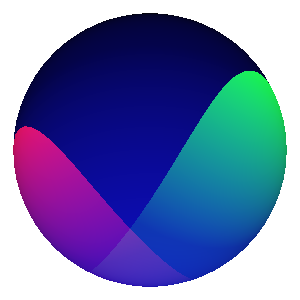
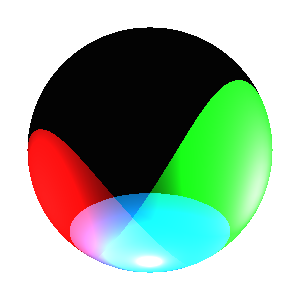
Final tweaks on first pass of shader 10 tutorial.

diff --git a/tests/shader_10.py b/tests/shader_10.py
@@ -6,6 +6,11 @@
 This tutorial builds on earlier tutorials by adding:
 
 	* Directional shielded Point Lights (Spot Lights)
+	
+Spot Lights are a commonly seen pattern. They are basically 
+Point Light sources which have shields/reflectors which block 
+light in most directions, while focussing the light (to some 
+degree) in a particular direction.
 '''
 from OpenGLContext import testingcontext
 BaseContext, MainFunction = testingcontext.getInteractive()
@@ -19,9 +24,37 @@ class TestContext( BaseContext ):
 	"""Demonstrates use of attribute types in GLSL
 	"""
 	LIGHT_COUNT = 3
+	'''Note that we're going to add 2 new vec4 fields to our light,
+	the legacy GL has 2 floats and a direction vector, but we're 
+	combining all the values into a uniform vector set.'''
 	LIGHT_SIZE = 7
 	def OnInit( self ):
 		"""Initialize the context"""
+		'''As you can see, we've created a new 4-element vector 
+		called SPOT_PARAMS which holds 3 "meaningful" float values.
+		The first element cos_spot_cutoff represents the cosign of 
+		the angle beyond which the light is cut off. This angle is 
+		measured from the light's spot_direction compared with the 
+		light_location vector.  In effect, it is a check to see if 
+		the fragment is within the cone of the light.  The use of the 
+		*cosine* of the angle is to allow for very fast checks against 
+		the dot-product of the normalized vectors.
+		
+		The second element, spot_exponent, is used to calculate the 
+		amount of "spotiness" of the spotlight, that is, the amount 
+		to which the spotlight focusses light on the center of the 
+		beam versus the outside of the beam.  A higher spot_exponent
+		will cause the spotlight to "focus" more, a lower exponent 
+		will cause the spotlight to act more like a "shielded" 
+		point-light (such as a lamp with blockers rather than reflectors).
+		
+		The last component of the SPOT_PARAMS is being used as a simple 
+		flag to tell us whether to apply the spot calculation.  We could 
+		have shaved a whole vec4 by packing the spot_exponent into the 
+		ATTENUATION vector's unused .w component, and then packing the 
+		spot_cutoff into the spot_direction's unused .w, but that becomes 
+		a bit awkward looking.
+		'''
 		lightConst = """
 		const int LIGHT_COUNT = %s;
 		const int LIGHT_SIZE = %s;
@@ -31,7 +64,7 @@ class TestContext( BaseContext ):
 		const int SPECULAR = 2;
 		const int POSITION = 3;
 		const int ATTENUATION = 4;
-		//SPOT_PARAMS [ spot_exponent, cos_spot_cutoff, ignored, is_spot ]
+		//SPOT_PARAMS [ cos_spot_cutoff, spot_exponent, ignored, is_spot ]
 		const int SPOT_PARAMS = 5;
 		const int SPOT_DIR = 6;
 		
@@ -42,6 +75,26 @@ class TestContext( BaseContext ):
 		
 		varying vec3 baseNormal;
 		"""%( self.LIGHT_COUNT, self.LIGHT_SIZE )
+		'''Our dLight function receives its final tweaks here.  We 
+		provide the two vec4 spot elements for the current light.
+		The spotlight operation modifies the point-light code such that 
+		the "attenuation" numerator is either 1.0 (for non-directional 
+		point-lights) or a calculated value for spot-lights.
+		
+		To calculate this value, we take the (cos of the) angle between 
+		the light direction (spot_direction) and the vector between 
+		the fragment and the light location (-light_pos).  If this value 
+		is lower than our spot_cutoff, then we do not want to provide 
+		any lighting whatsoever from this light, so we short-circuit and 
+		return a null vector of weights. 
+		
+		If the value is higher than the cutoff, we calculate the
+		"spotiness" multiplier.  Here we are *not* using the OpenGL 
+		standard method, instead we calculate the fraction of total 
+		cosine-space which is displayed and raise it to the power of our 
+		spot_exponent value.
+		
+		'''
 		dLight = """
 		vec3 dLight( 
 			in vec3 light_pos, // light position/direction
@@ -68,11 +121,18 @@ class TestContext( BaseContext ):
 						gl_NormalMatrix * normalize(spot_direction.xyz),
 						normalize(-light_pos)
 					);
-					if (spot_cos <= spot_params.y) {
+					if (spot_cos <= spot_params.x) {
 						// is a spot, and is outside the cone-of-light...
 						return vec3( 0.0, 0.0, 0.0 );
 					} else {
-						spot_effect = pow( spot_cos, spot_params.x );
+						if (spot_cos == 1.0) {
+							spot_effect = 1.0;
+						} else {
+							spot_effect = pow( 
+								(1.0-spot_params.x)/(1.0-spot_cos), 
+								spot_params.y 
+							);
+						}
 					}
 				}
 				n_dot_half = pow(
@@ -82,15 +142,11 @@ class TestContext( BaseContext ):
 					shininess
 				);
 				if (distance != 0.0) {
-					attenuation = clamp(
-						0.0,
-						1.0,
-						1.0 / (
+					attenuation = spot_effect / (
 							attenuations.x + 
 							(attenuations.y * distance) +
 							(attenuations.z * distance * distance)
-						)
-					);
+						);
 					n_dot_pos *= attenuation;
 					n_dot_half *= attenuation;
 				}
@@ -98,6 +154,7 @@ class TestContext( BaseContext ):
 			return vec3( attenuation, n_dot_pos, n_dot_half);
 		}		
 		"""
+		'''Nothing needs to change in our vertex shader.'''
 		vertex = compileShader( 
 			lightConst + 
 		"""
@@ -136,6 +193,8 @@ class TestContext( BaseContext ):
 				);
 			}
 		}""", GL_VERTEX_SHADER)
+		'''Our only change for the fragment shader is to pass in the 
+		spot components of the current light when calling dLight.'''
 		fragment = compileShader( 
 			lightConst + dLight + """
 		struct Material {
@@ -173,6 +232,7 @@ class TestContext( BaseContext ):
 			gl_FragColor = fragColor;
 		}
 		""", GL_FRAGMENT_SHADER)
+		'''Our uniform/geometry handling code is unchanged.'''
 		self.shader = compileProgram(vertex,fragment)
 		self.coords,self.indices,self.count = Sphere( 
 			radius = 1 
@@ -193,14 +253,22 @@ class TestContext( BaseContext ):
 			if location in (None,-1):
 				print 'Warning, no attribute: %s'%( uniform )
 			setattr( self, attribute+ '_loc', location )
-		
+	'''We'll dial down the shininess on our material a little so that 
+	it's easier to see the spotlight cones on the sphere.'''
 	UNIFORM_VALUES = [
 		('Global_ambient',(.05,.05,.05,1.0)),
 		('material.ambient',(.2,.2,.2,1.0)),
 		('material.diffuse',(.8,.8,.8,1.0)),
 		('material.specular',(.8,.8,.8,1.0)),
-		('material.shininess',(.5,)),
+		('material.shininess',(.8,)),
 	]
+	'''Our lights array now has more fields per light.  The spotlight 
+	vectors always have to be present, even if we are not using them 
+	for a particular light.  We're going to define 3 lights here with 
+	fairly high "spotiness" values so that we can see the focussed 
+	beam effect on the sphere.  The spot exponents in this case tend to 
+	cause an area in the center of the beam to saturate completely.
+	'''
 	LIGHTS = array([
 	
 		x[1] for x in [
@@ -209,7 +277,7 @@ class TestContext( BaseContext ):
 			('lights[0].specular',(0.0,.25,0.0,1.0)),
 			('lights[0].position',(2.5,3.5,2.5,1.0)),
 			('lights[0].attenuation',(0.0,.125,0.0,1.0)),
-			('lights[0].spot_params',(2,cos(.2),0.0,1.0)),
+			('lights[0].spot_params',(cos(.2),1.5,0.0,1.0)),
 			('lights[0].spot_dir',(-8,-20,-8.0,1.0)),
 			
 			('lights[1].ambient',(.05,.05,.05,1.0)),
@@ -217,18 +285,19 @@ class TestContext( BaseContext ):
 			('lights[1].specular',(1.0,0.0,0.0,1.0)),
 			('lights[1].position',(-2.5,2.5,2.5,1.0)),
 			('lights[1].attenuation',(0.0,0.0,.125,1.0)),
-			('lights[1].spot_params',(2.0,cos(.25),0.0,1.0)),
+			('lights[1].spot_params',(cos(.25),2.0,0.0,1.0)),
 			('lights[1].spot_dir',(2.5,-5.5,-2.5,1.0)),
 			
 			('lights[2].ambient',(.05,.05,.05,1.0)),
-			('lights[2].diffuse',(.1,.1,.8,1.0)),
-			('lights[2].specular',(0.0,0.0,1.0,1.0)),
+			('lights[2].diffuse',(.1,.1,1.0,1.0)),
+			('lights[2].specular',(0.0,1.0,1.0,1.0)),
 			('lights[2].position',(0.0,-3.06,3.06,1.0)),
 			('lights[2].attenuation',(2.0,0.0,0.0,1.0)),
-			('lights[2].spot_params',(0.0,0.0,0.0,0.0)),
-			('lights[2].spot_dir',(0.0,0.0,-1.0,1.0)),
+			('lights[2].spot_params',(cos(.15),.75,0.0,1.0)),
+			('lights[2].spot_dir',(0.0,3.06,-3.06,1.0)),
 		]
 	], 'f')
+	'''Nothing else needs to change from the previous tutorial.'''
 	def Render( self, mode = None):
 		"""Render the geometry for the scene."""
 		BaseContext.Render( self, mode )
@@ -276,3 +345,6 @@ class TestContext( BaseContext ):
 
 if __name__ == "__main__":
 	MainFunction ( TestContext)
+'''We've now built a fairly complete per-pixel Phong renderer.  As an 
+exercise, you may wish to modify the spotlight equations above to match 
+the legacy OpenGL mechanism.'''
